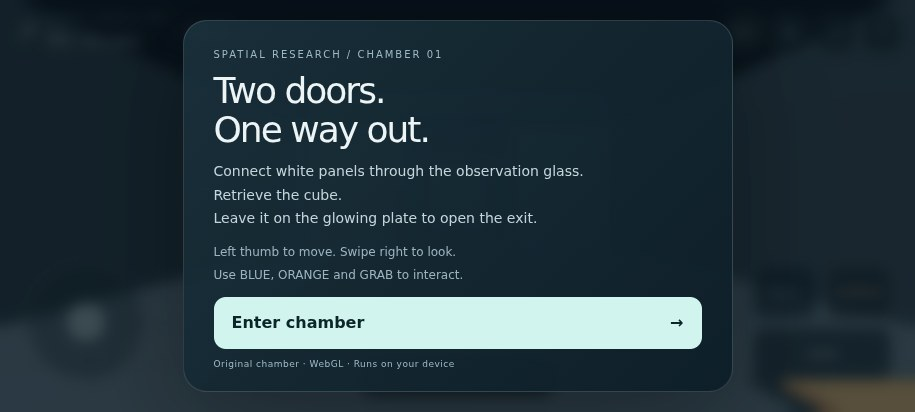
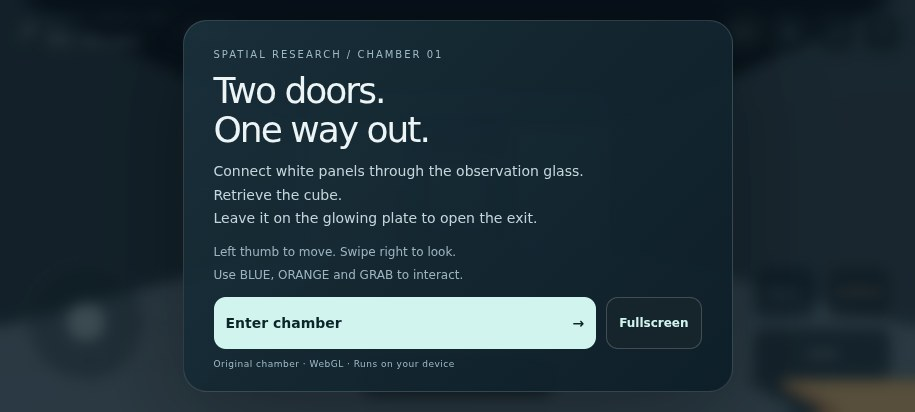
Add fullscreen control to Portal Puzzle Lab opening screen

Changed region(s): [[0.6426, 0.699, 0.765, 0.8447], [0.2448, 0.7573, 0.3978, 0.8155]]

diff --git a/assets/interactive/portal-puzzle-lab/src/game.js b/assets/interactive/portal-puzzle-lab/src/game.js
@@ -44,6 +44,28 @@ function start(reset = false) {
   $("complete").hidden = true;
   if (!matchMedia("(pointer:coarse)").matches) canvas.requestPointerLock()?.catch(() => notify("Click the chamber to enable mouse look"));
 }
+const fullscreenButton = $("fullscreen");
+fullscreenButton.disabled = !document.fullscreenEnabled;
+if (!document.fullscreenEnabled) {
+  $("fullscreen-status").hidden = false;
+  $("fullscreen-status").textContent = "Fullscreen is unavailable in this browser.";
+}
+fullscreenButton.onclick = async () => {
+  try {
+    if (document.fullscreenElement) await document.exitFullscreen();
+    else await document.documentElement.requestFullscreen();
+    $("fullscreen-status").hidden = true;
+  } catch (error) {
+    console.warn("Fullscreen request failed", error);
+    $("fullscreen-status").hidden = false;
+    $("fullscreen-status").textContent = "Fullscreen could not open. Please try again.";
+  }
+};
+document.addEventListener("fullscreenchange", () => {
+  const active = !!document.fullscreenElement;
+  fullscreenButton.textContent = active ? "Exit fullscreen" : "Fullscreen";
+  fullscreenButton.setAttribute("aria-pressed", String(active));
+});
 try {
   sim = new Simulation();
   view = new View(canvas, sim);

diff --git a/projects/portal-puzzle-lab/src/game.js b/projects/portal-puzzle-lab/src/game.js
@@ -44,6 +44,28 @@ function start(reset = false) {
   $("complete").hidden = true;
   if (!matchMedia("(pointer:coarse)").matches) canvas.requestPointerLock()?.catch(() => notify("Click the chamber to enable mouse look"));
 }
+const fullscreenButton = $("fullscreen");
+fullscreenButton.disabled = !document.fullscreenEnabled;
+if (!document.fullscreenEnabled) {
+  $("fullscreen-status").hidden = false;
+  $("fullscreen-status").textContent = "Fullscreen is unavailable in this browser.";
+}
+fullscreenButton.onclick = async () => {
+  try {
+    if (document.fullscreenElement) await document.exitFullscreen();
+    else await document.documentElement.requestFullscreen();
+    $("fullscreen-status").hidden = true;
+  } catch (error) {
+    console.warn("Fullscreen request failed", error);
+    $("fullscreen-status").hidden = false;
+    $("fullscreen-status").textContent = "Fullscreen could not open. Please try again.";
+  }
+};
+document.addEventListener("fullscreenchange", () => {
+  const active = !!document.fullscreenElement;
+  fullscreenButton.textContent = active ? "Exit fullscreen" : "Fullscreen";
+  fullscreenButton.setAttribute("aria-pressed", String(active));
+});
 try {
   sim = new Simulation();
   view = new View(canvas, sim);

diff --git a/assets/interactive/portal-puzzle-lab/index.html b/assets/interactive/portal-puzzle-lab/index.html
@@ -45,7 +45,12 @@
             >Left thumb to move. Swipe right to look.<br />Use BLUE, ORANGE and GRAB to interact.</span
           >
         </div>
-        <button id="start">Enter chamber <span>→</span></button><small class="footnote">Original chamber · WebGL · Runs on your device</small>
+        <div class="start-actions">
+          <button id="start">Enter chamber <span>→</span></button>
+          <button id="fullscreen" aria-pressed="false">Fullscreen</button>
+        </div>
+        <small id="fullscreen-status" role="status" hidden></small>
+        <small class="footnote">Original chamber · WebGL · Runs on your device</small>
       </div>
     </section>
     <section id="complete" hidden>

diff --git a/projects/portal-puzzle-lab/index.html b/projects/portal-puzzle-lab/index.html
@@ -45,7 +45,12 @@
             >Left thumb to move. Swipe right to look.<br />Use BLUE, ORANGE and GRAB to interact.</span
           >
         </div>
-        <button id="start">Enter chamber <span>→</span></button><small class="footnote">Original chamber · WebGL · Runs on your device</small>
+        <div class="start-actions">
+          <button id="start">Enter chamber <span>→</span></button>
+          <button id="fullscreen" aria-pressed="false">Fullscreen</button>
+        </div>
+        <small id="fullscreen-status" role="status" hidden></small>
+        <small class="footnote">Original chamber · WebGL · Runs on your device</small>
       </div>
     </section>
     <section id="complete" hidden>

diff --git a/assets/interactive/portal-puzzle-lab/style.css b/assets/interactive/portal-puzzle-lab/style.css
@@ -210,6 +210,30 @@ p {
   border: 0;
   height: 52px;
 }
+.start-actions {
+  display: flex;
+  gap: 10px;
+}
+.start-actions #start {
+  flex: 1;
+  width: auto;
+  font-size: 14px;
+  padding: 0 12px;
+  gap: 8px;
+}
+.start-actions #fullscreen {
+  width: auto;
+  background: #16242b;
+  color: #d1f4ee;
+  border: 1px solid #ffffff30;
+  font-size: 12px;
+  padding: 0 12px;
+}
+#fullscreen-status:not([hidden]) {
+  display: block;
+  margin-top: 10px;
+  letter-spacing: 0;
+}
 .footnote {
   display: block;
   margin-top: 20px;

diff --git a/projects/portal-puzzle-lab/style.css b/projects/portal-puzzle-lab/style.css
@@ -210,6 +210,30 @@ p {
   border: 0;
   height: 52px;
 }
+.start-actions {
+  display: flex;
+  gap: 10px;
+}
+.start-actions #start {
+  flex: 1;
+  width: auto;
+  font-size: 14px;
+  padding: 0 12px;
+  gap: 8px;
+}
+.start-actions #fullscreen {
+  width: auto;
+  background: #16242b;
+  color: #d1f4ee;
+  border: 1px solid #ffffff30;
+  font-size: 12px;
+  padding: 0 12px;
+}
+#fullscreen-status:not([hidden]) {
+  display: block;
+  margin-top: 10px;
+  letter-spacing: 0;
+}
 .footnote {
   display: block;
   margin-top: 20px;

diff --git a/projects/portal-puzzle-lab/VALIDATION.md b/projects/portal-puzzle-lab/VALIDATION.md
@@ -75,11 +75,11 @@ The complete browser suite passed on 2026-10-10 with Chromium 154 in Docker.
 All three contexts reported zero console/page errors and zero missing assets.
 Every solved state records two player crossings and at least one cube crossing.
 
-| Viewport | Simulation time to completion | Real active time | Fast FPS after replay |
-| --- | ---: | ---: | ---: |
-| desktop | 41.6 s | 60.6 s | 12.4 |
-| phone-portrait | 44.4 s | 45.2 s | 32.5 |
-| phone-landscape | 22.0 s | 22.2 s | 18.4 |
+| Viewport        | Simulation time to completion | Real active time | Fast FPS after replay |
+| --------------- | ----------------------------: | ---------------: | --------------------: |
+| desktop         |                        41.6 s |           60.6 s |                  12.4 |
+| phone-portrait  |                        44.4 s |           45.2 s |                  32.5 |
+| phone-landscape |                        22.0 s |           22.2 s |                  18.4 |
 
 These FPS values are single post-replay samples with portals reset and SwiftShader,
 not sustained gameplay benchmarks. Render resolution was 384 pixels on the portal
@@ -91,3 +91,12 @@ output (including minified modules): fresh load, public debug API absence, porta
 shots, both graphics settings, pause/help bounds and route refresh. The final
 local site uses the deployment workflow's separately built SLAM viewer before
 running the stable-route checker.
+
+Fullscreen follow-up: the opening button and enter/exit transitions passed the
+Docker Chromium production smoke test at 1440 × 900, 412 × 915 and 915 × 412.
+Chrome computer-agent screenshots confirmed the opening layout at desktop,
+phone portrait and phone landscape. The connected Chrome automation session
+returned `TypeError: not granted` for its fullscreen request; the visible retry
+message was verified. Successful fullscreen transitions are covered by the
+Docker browser checks, rather than claimed for that connected Chrome session.
+The source hash checkpoint was refreshed after this change.

diff --git a/projects/portal-puzzle-lab/README.md b/projects/portal-puzzle-lab/README.md
@@ -23,6 +23,10 @@ docker compose -f projects/portal-puzzle-lab/compose.yaml up -d preview
 
 See VALIDATION.md for browser checks and CHECKPOINTS.md for continuation.
 
+The opening screen offers Fullscreen before entering the chamber. Use Exit
+fullscreen on the controls overlay or the browser's Escape gesture to leave.
+Browsers without the Fullscreen API show an availability message.
+
 ## Architecture
 
 - `src/level.js`: metre-scale chamber, spawn, cube, plate and panel geometry.
